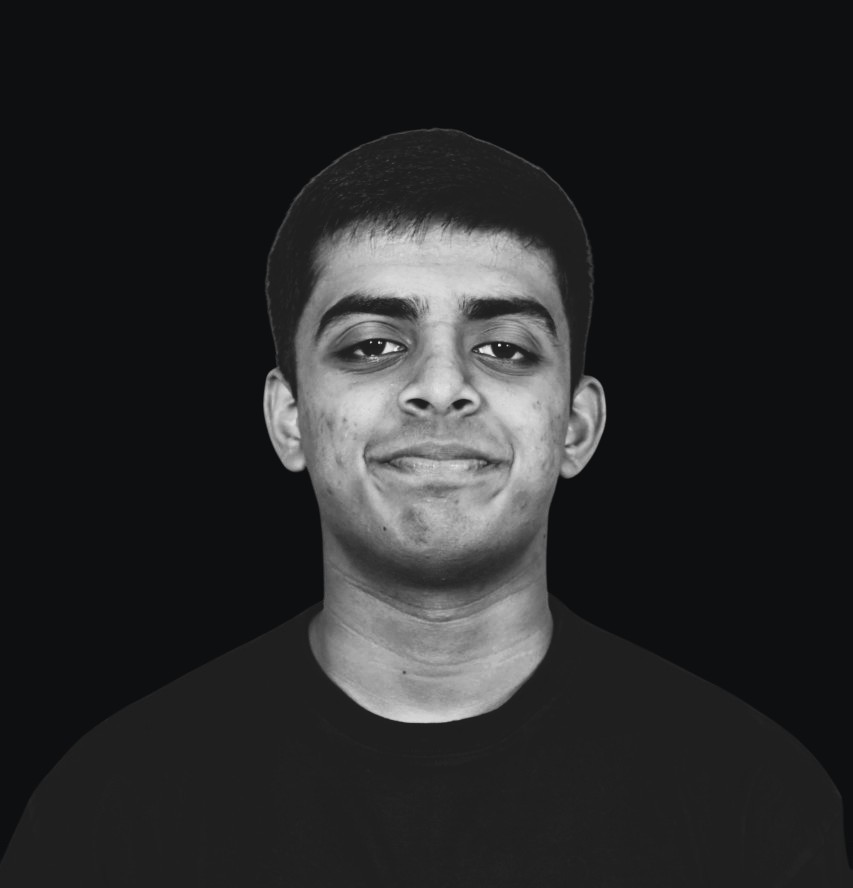
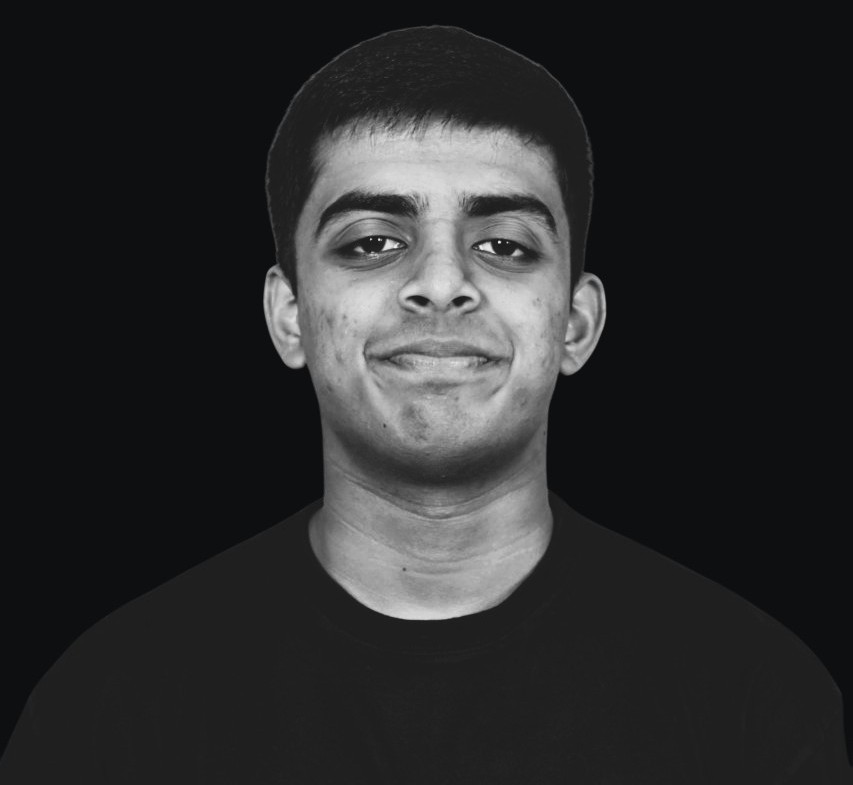
About me Page content added

Changed region(s): [[0.3048, 0.0306, 0.7315, 0.8255], [0.6401, 0.0917, 0.6706, 0.1223], [0.6096, 0.0611, 0.6401, 0.0917]]

diff --git a/portfolio-website/src/pages/About.tsx b/portfolio-website/src/pages/About.tsx
@@ -1,19 +1,70 @@
 export default function AboutMe() {
   return (
-    <div className="relative flex items-end justify-center w-full h-screen overflow-hidden bg-background">
-      {/* Image */}
-      <div className="w-[400px] md:w-[480px] lg:w-[580px] overflow-hidden transform transition-transform duration-700 hover:-translate-y-2 hover:scale-105">
-        <img
-          src="/images/about/profile.jpg"
-          alt="About Me"
-          className="w-full h-auto object-cover"
-          style={{
-            objectPosition: "center 25%",
-            mixBlendMode: "multiply", // blends with background
-            opacity: 0.85 // subtle transparency to blend
-          }}
-        />
+    <div className="flex flex-col md:flex-row w-full min-h-screen px-6 md:px-16 bg-background gap-8">
+
+      {/* Left Column */}
+      <div className="flex-1 flex flex-col justify-start pt-36 md:pt-43 text-center md:text-left space-y-6 md:space-y-8">
+        {/* Greeting */}
+        <h2 className="text-2xl md:text-3xl font-sans font-medium text-gray-300">
+          Hey, I'm Vishal
+        </h2>
+
+        {/* Role */}
+        <h1
+          className="text-5xl md:text-6xl font-serif font-extrabold leading-tight"
+          style={{ color: "#ff4d6d" }}
+        >
+          A Software Developer & <br /> Data Engineer
+        </h1>
+
+        {/* Tagline */}
+        <p className="text-xl md:text-xl font-sans text-gray-400 max-w-lg">
+          Transforming{" "}
+          <span className="font-semibold" style={{ color: "#ff4d6d" }}>
+            novel ideas
+          </span>{" "}
+          into applications that captivate, engage, and{" "}
+          <span className="font-semibold" style={{ color: "#ff4d6d" }}>
+            enhance experiences
+          </span>.
+        </p>
       </div>
+
+
+      {/* Center Column: Image */}
+      <div className="flex-[0.8] flex justify-center md:self-end">
+        <div className="w-[400px] md:w-[480px] lg:w-[580px] h-auto overflow-hidden">
+          <img
+            src="/images/about/profile.jpg"
+            alt="About Me"
+            className="w-full h-auto object-cover transform transition-transform duration-700 hover:scale-105"
+            style={{
+              objectPosition: "center 25%",
+              opacity: 0.85,
+            }}
+          />
+        </div>
+      </div>
+
+
+      {/* Right Column */}
+      <div className="flex-1 flex flex-col justify-start pt-36 md:pt-48 max-w-md md:max-w-lg text-gray-300 leading-relaxed mx-auto md:mx-0 text-sm md:text-base space-y-6 md:space-y-8 text-justify">
+
+        <p>
+          🎓 I'm a recent graduate from <span className="font-semibold text-[#ff4d6d]">PES University</span> with a strong tech background. I enjoy putting those skills to use by building <span className="font-semibold text-[#ff4d6d]">products and applications</span> that solve problems I can relate to.
+        </p>
+
+        <p>
+          🤖 Recently, I've started exploring <span className="font-serif font-bold text-[#ff4d6d]">AI & Machine Learning</span>, integrating them into applications effectively. I also love <span className="font-semibold text-[#ff4d6d]">system design</span>—a skill I find extremely underrated—and creating <span className="font-semibold text-[#ff4d6d]">intuitive user interfaces</span> that users find engaging.
+        </p>
+
+        <p>
+          💡 Collaboration is key! I'm always eager to <span className="font-semibold text-[#ff4d6d]">learn from peers</span> and work on exciting projects. Hit me up if you're interested in building something together!
+        </p>
+
+      </div>
+
+
     </div>
   );
 }

diff --git a/portfolio-website/src/pages/Home.tsx b/portfolio-website/src/pages/Home.tsx
@@ -54,7 +54,10 @@ export default function Home() {
         rel="noopener noreferrer"
         className="mt-8"
       >
-        <Button className="text-xs rounded-full px-6 py-2">
+        <Button
+          className="text-xs rounded-full px-6 py-2 font-semibold"
+          style={{ backgroundColor: "#ff4d6d", color: "#ffffff" }}
+        >
           CONNECT WITH ME
         </Button>
       </a>
